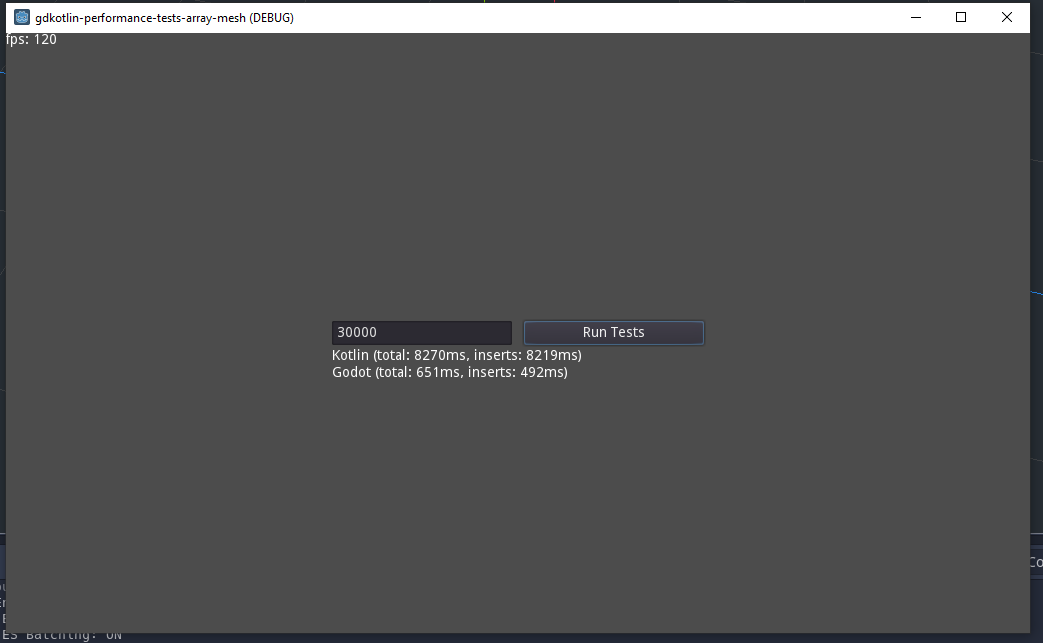
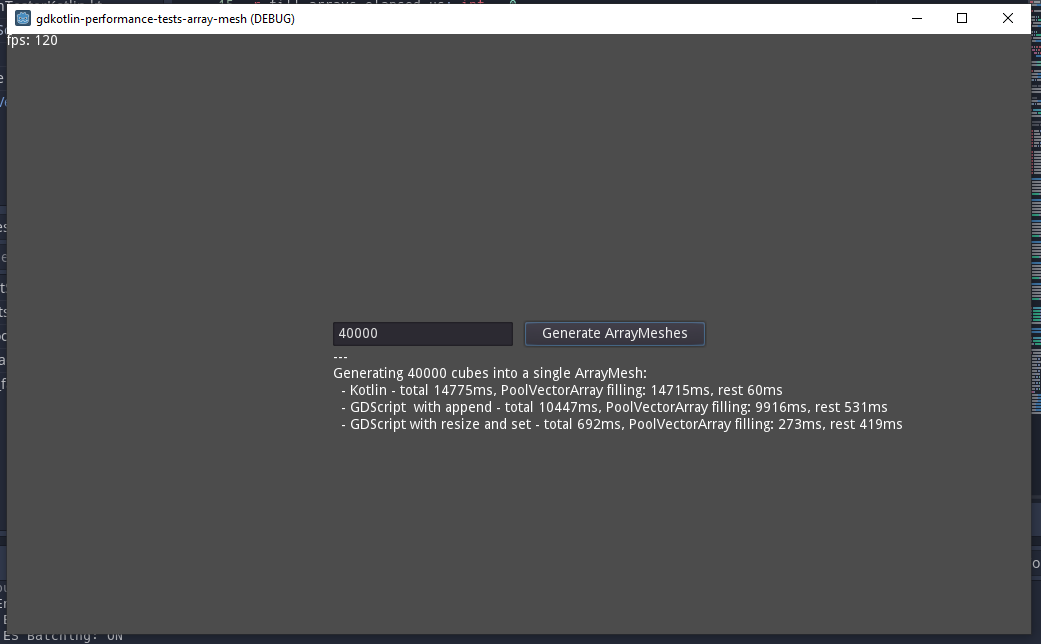
feat better differentiate GDScript with append and resize + set

diff --git a/array-mesh-tests-client/src/main/kotlin/de/richardtreier/gdkotlin/performancetests/arraymesh/scenes/TestScene.kt b/array-mesh-tests-client/src/main/kotlin/de/richardtreier/gdkotlin/performancetests/arraymesh/scenes/TestScene.kt
@@ -29,10 +29,11 @@ class TestScene : Spatial() {
   private lateinit var nodes: Nodes
   private var numBlocks = 0
   private var lastKotlinResult: TestResult? = null
-  private var lastGodotResult: TestResult? = null
+  private var lastGodotNoResizeArraysResult: TestResult? = null
+  private var lastGodotResizeArraysResult: TestResult? = null
 
   @RegisterSignal
-  val signalRunMeshTesterGodot by signal<Int>("numBlocks")
+  val signalRunMeshTesterGodot by signal<Int, Boolean>("numBlocks", "resizeArrays")
 
   @RegisterFunction
   override fun _ready() {
@@ -46,15 +47,31 @@ class TestScene : Spatial() {
     nodes.button.disableWhile {
       updateNumBlocks()
       lastKotlinResult = runKotlinTest()
-      signalRunMeshTesterGodot.emit(numBlocks)
+      signalRunMeshTesterGodot.emit(numBlocks, false)
     }
   }
 
   @RegisterFunction
-  fun onReportMeshTesterGodotResult(numTotalMs: Int, numInsertsMs: Int) {
-    lastGodotResult = TestResult("Godot", numTotalMs, numInsertsMs)
-    val resultMessage = listOf(lastKotlinResult, lastGodotResult).joinToString("\n") { it?.pretty() ?: "null" }
-    nodes.result.text = resultMessage
+  fun onReportMeshTesterGodotResult(numTotalMs: Int, numInsertsMs: Int, resizeArrays: Boolean) {
+    val result = TestResult(
+      "GDScript ${if (resizeArrays) "with resize and set" else "with append"}",
+      numTotalMs,
+      numInsertsMs
+    )
+    if (!resizeArrays) {
+      lastGodotNoResizeArraysResult = result
+      signalRunMeshTesterGodot.emit(numBlocks, true)
+    } else {
+      lastGodotResizeArraysResult = result
+
+      val resultMessage = "---\nGenerating $numBlocks cubes into a single ArrayMesh:" + listOfNotNull(
+        lastKotlinResult,
+        lastGodotNoResizeArraysResult,
+        lastGodotResizeArraysResult
+      ).joinToString("") { "\n  - " + it.pretty() }
+      println(resultMessage)
+      nodes.result.text = resultMessage
+    }
   }
 
   private fun runKotlinTest(): TestResult {

diff --git a/array-mesh-tests-client/src/main/kotlin/de/richardtreier/gdkotlin/performancetests/arraymesh/utils/TestResult.kt b/array-mesh-tests-client/src/main/kotlin/de/richardtreier/gdkotlin/performancetests/arraymesh/utils/TestResult.kt
@@ -3,6 +3,6 @@ package de.richardtreier.gdkotlin.performancetests.arraymesh.utils
 
 data class TestResult(val name: String, val totalMs: Int, val insertsMs: Int) {
   fun pretty(): String {
-    return "$name (total: ${totalMs}ms, inserts: ${insertsMs}ms)"
+    return "$name - total ${totalMs}ms, PoolVectorArray filling: ${insertsMs}ms, rest ${totalMs - insertsMs}ms"
   }
 }
